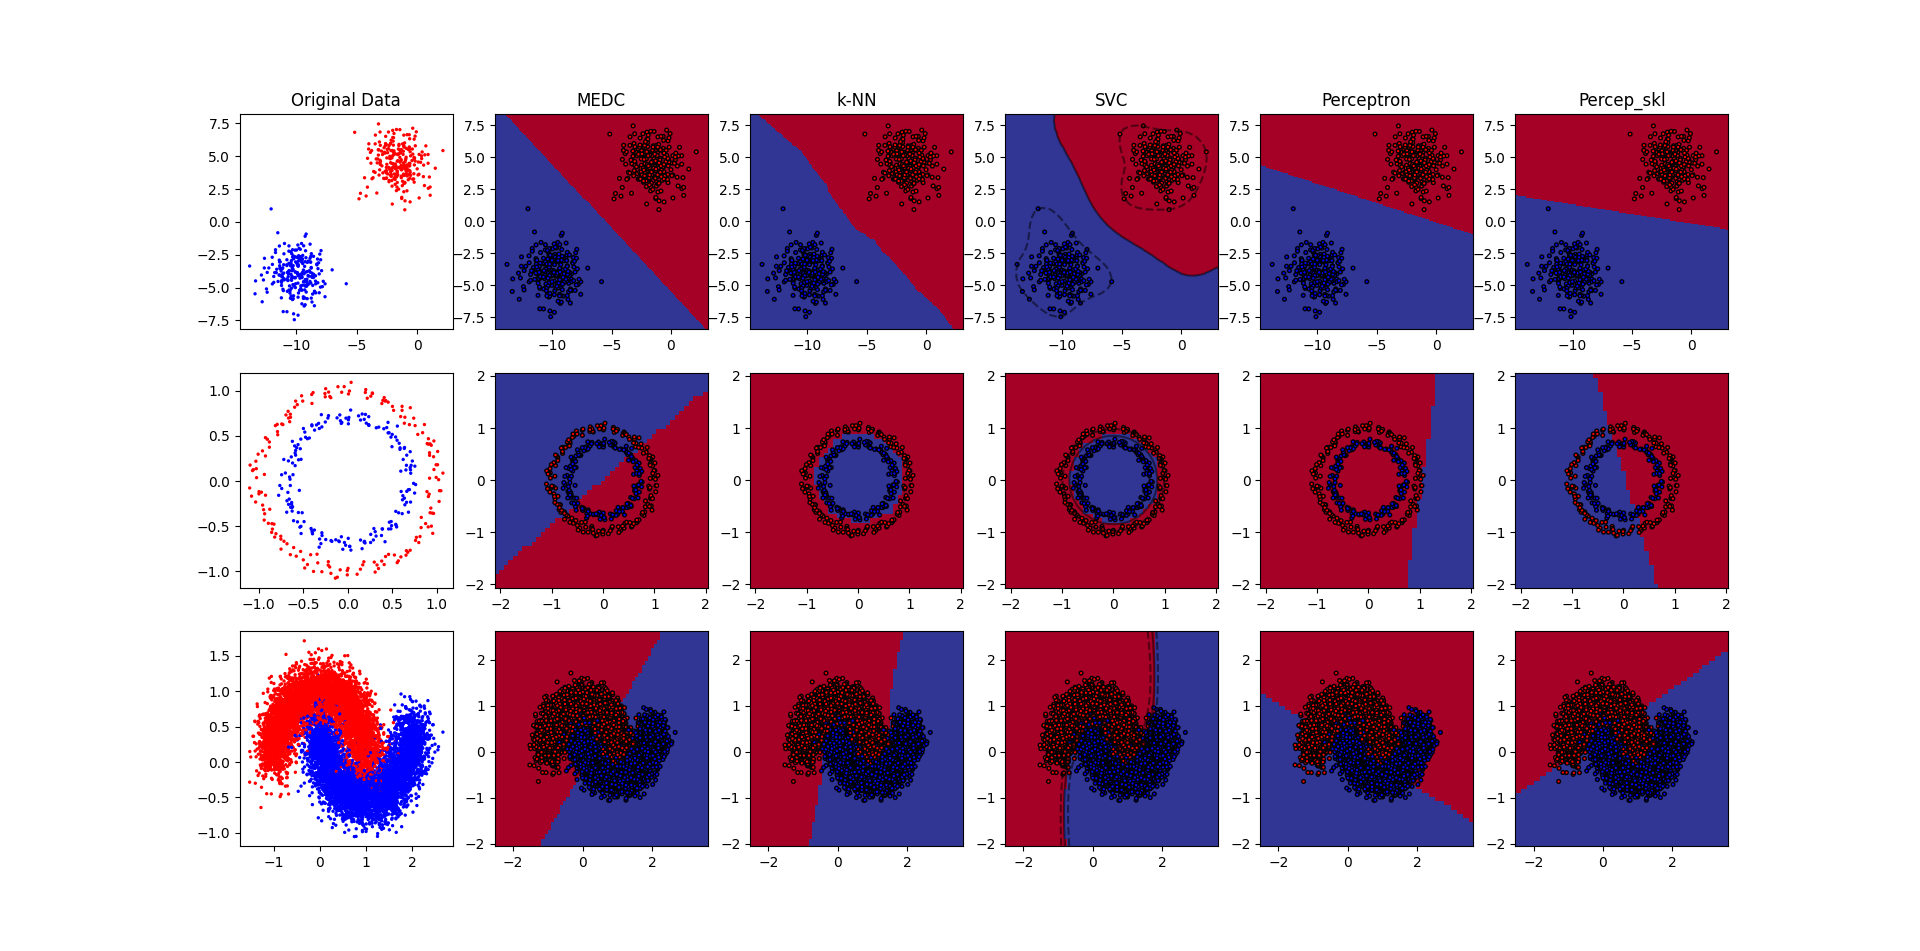
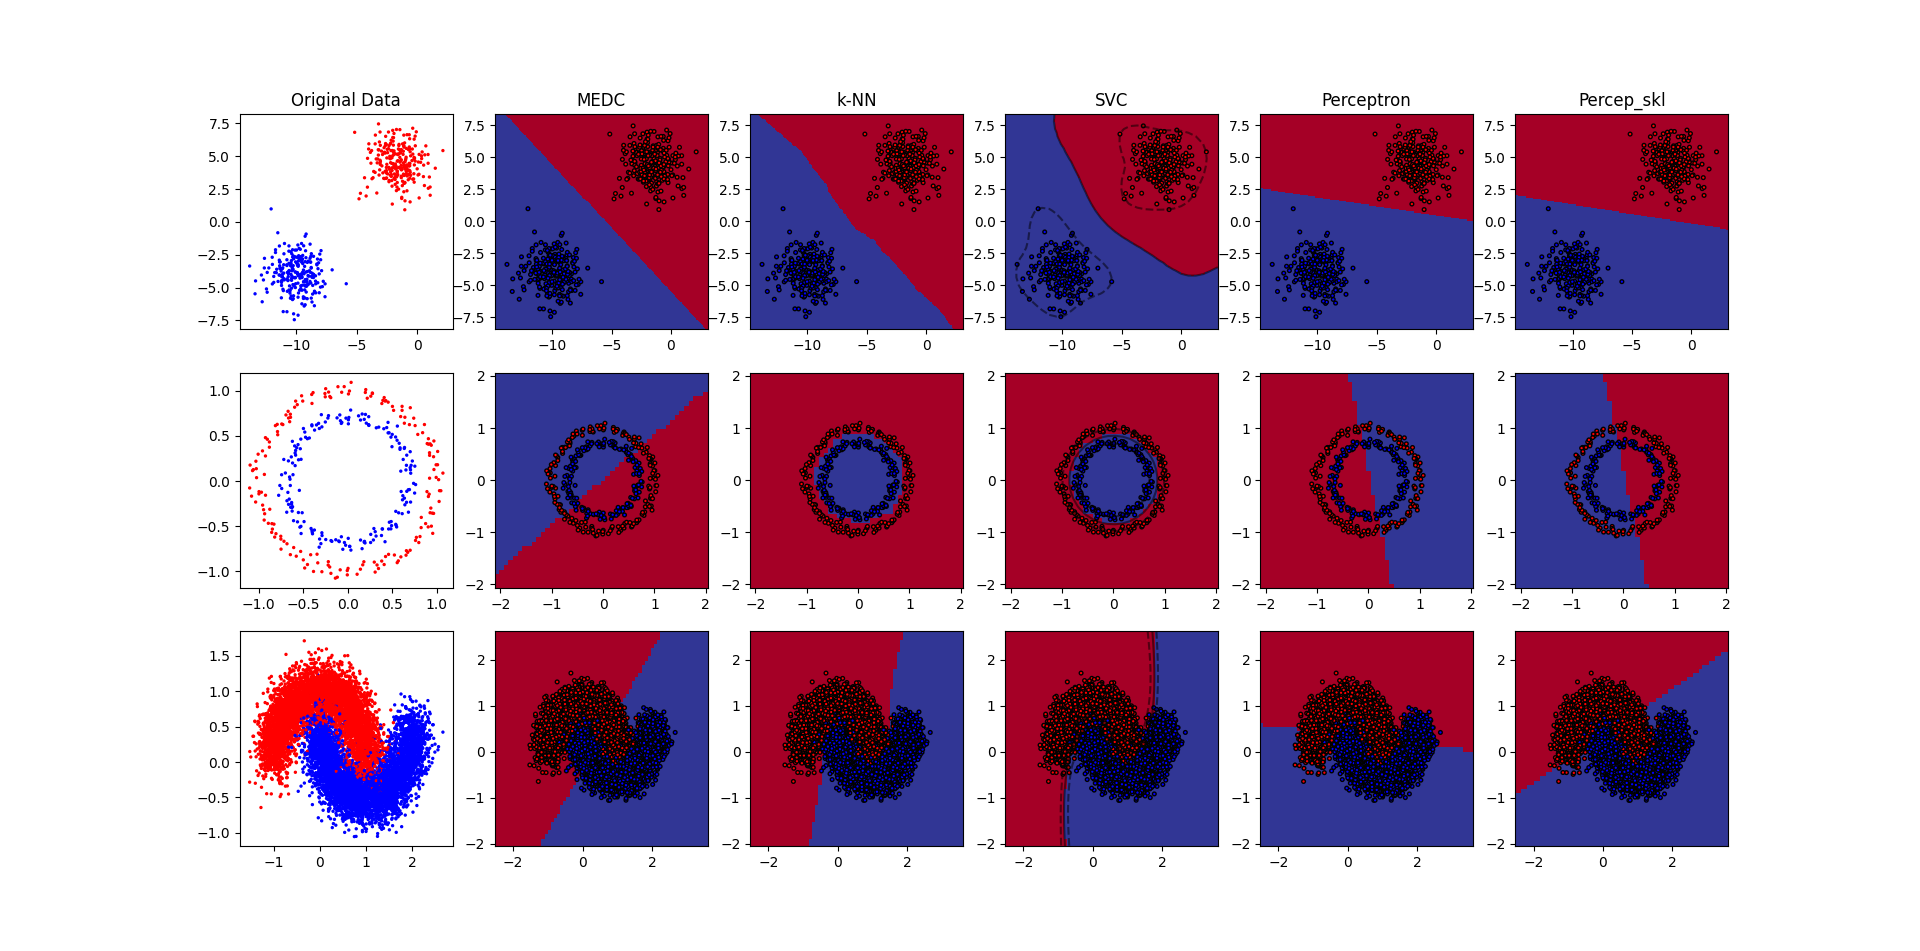
Minus changes

diff --git a/Bounds_classifier_comparison/ML_LaraArellano_Practica5.py b/Bounds_classifier_comparison/ML_LaraArellano_Practica5.py
@@ -20,8 +20,8 @@ k_Neighbors = 5			#Neighbors for the k-NN method
 Gamma_ = 0.1			#Value for SVC
 c_ = 10					#Value for SVC
 folds = 10				#Folder number in cross validation
-N_Epochs = 1			#Value for perceptron
-Learning_step = .5	#Learning ratio
+N_Epochs = 50			#Value for perceptron
+Learning_step = .005	#Learning ratio
 #--------------------------------------------------------------------------
 
 names = ['MEDC', 'k-NN', 'SVC', 'Perceptron', 'Percep_skl']						#Classifiers names

diff --git a/README.md b/README.md
@@ -1,2 +1,19 @@
-# Machine_Learning
-This repository contains exercises from the Machine Learning course.
+El script principal es:
+ML_LaraArellano_Practica5.py
+
+Este es el que debe ser ejecutado, al hacerlo este llamará a los demás scripts encargados de realizar las demás tareas.
+
+Las tareas que realizan las indica su nombre.
+
+Al ejecutarse este hará:
+1) Generará una serie de gráficas comparadoras.
+2) Abrirá en el navegador la tabla comparativa de accuracies
+3) Imprimirá en la terminal la tabla comparativa de accuracies
+
+*Nota 1
+En esta carpeta se encuentra:
+1) Imagen de las gráficas comparadoras.
+2) Imagen de la tabla de las accuracies
+
+*Nota 2
+El comando para generar la imagen de la tabla de las accuracies ha sido comentado debido a que es necesario instalar módulos extras (pyplot/orca) que es posible que el usuario no tenga instalados.
